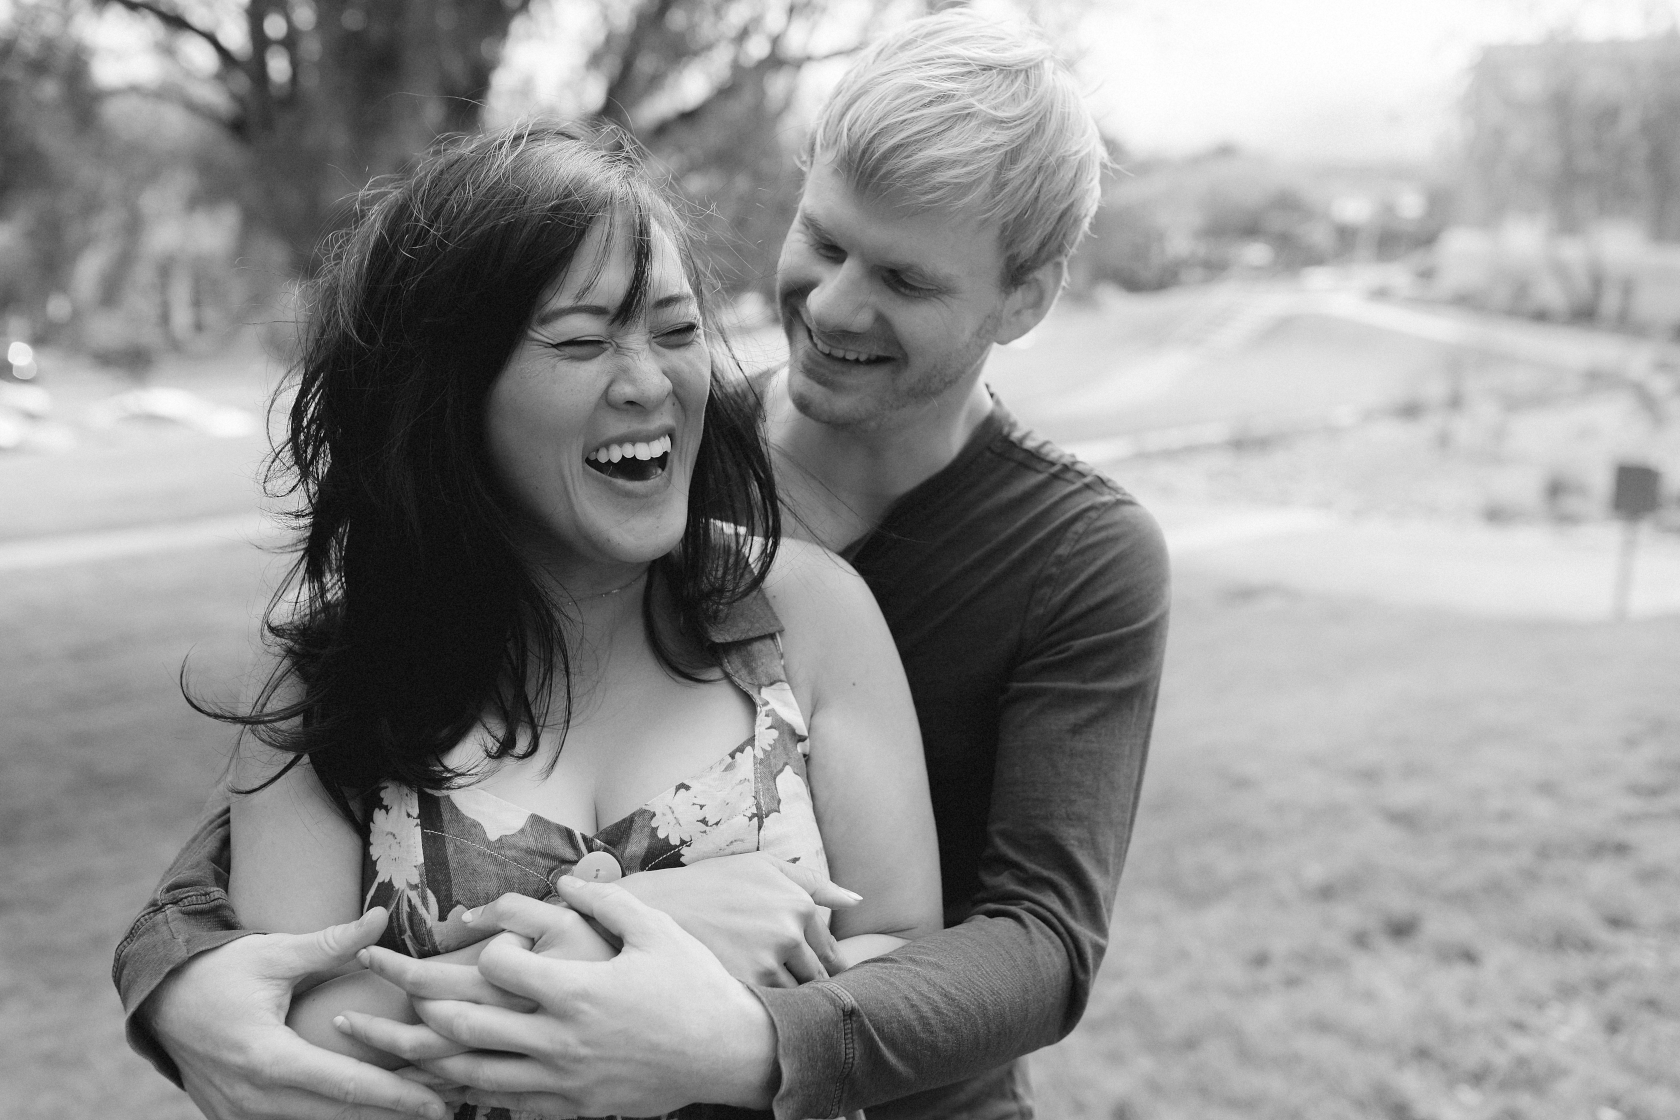
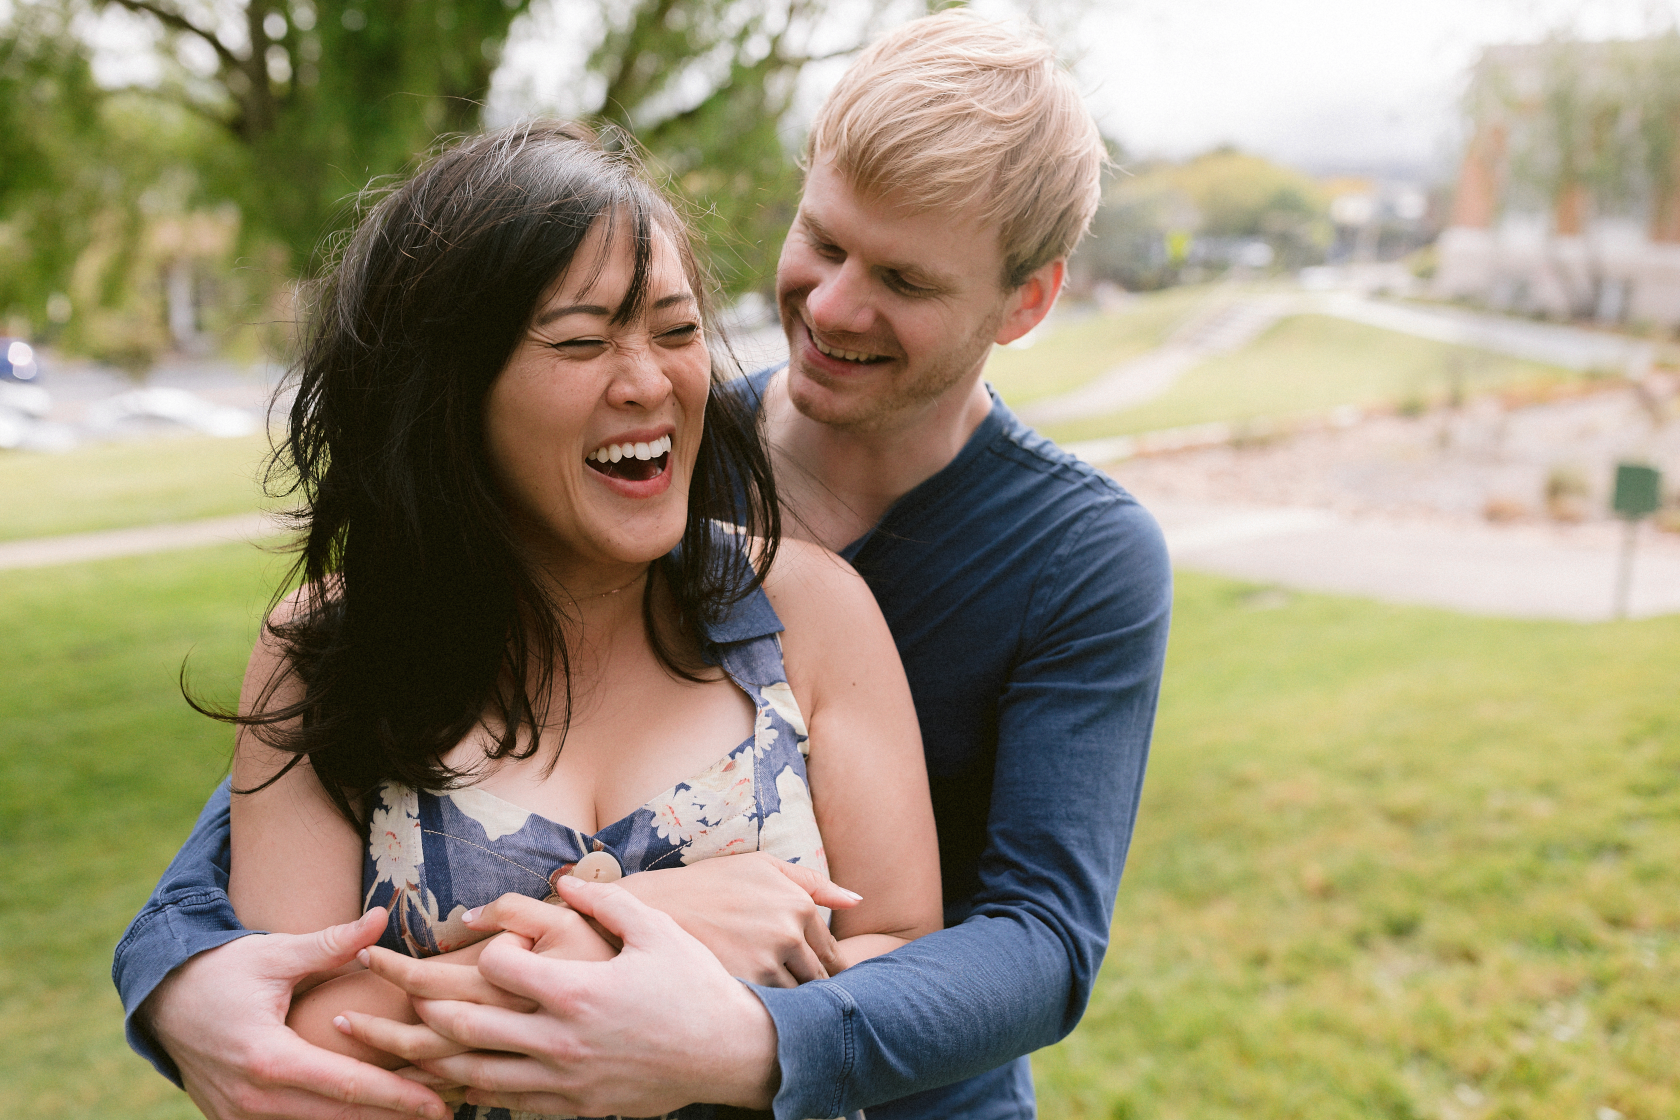
Use color heros of different sizes. * switch to color for the hero * add media queries for mobile/desktop sizes * add linear gradient in theme color over the image

diff --git a/site/static/css/home.css b/site/static/css/home.css
@@ -1,34 +1,25 @@
-@media (min-width: 320px) {
 #fh5co-home .gradient {
-    position: absolute;
-    top: 0;
-    bottom: 0;
-    left: 0;
-    right: 0;
-    z-index: 2;
-    opacity: .9;
+  background-image:var(--gradient-webkit);
+  background-size: cover; 
+}
+
+@media (min-width: 1680px) {
+#fh5co-home .gradient {
     -webkit-backface-visibility: hidden;
-    background-color:var(--theme-main);
-    background-image:url(/images/hero_320.png);
-    background: -webkit-linear-gradient(-45deg, rgba(3,39,76,1) 0%, rgba(32,124,229,0.5) 100%), url("/images/hero.png") no-repeat center; 
-    background-size: cover; 
+    background: linear-gradient(to bottom, rgba(3,39,76,1) 0%,rgba(3,39,76,0.7) 25%,rgba(22,138,244,0.7) 100%), url("/images/hero.png") no-repeat center;
   }
 }
 
-
-@media (min-width: 500px) {
+@media (max-width: 280px) {
 #fh5co-home .gradient {
-    position: absolute;
-    top: 0;
-    bottom: 0;
-    left: 0;
-    right: 0;
-    z-index: 2;
-    opacity: .9;
     -webkit-backface-visibility: hidden;
-    background-color:var(--theme-main);
-    background-image:url(/images/hero.png);
-    background: -webkit-linear-gradient(-45deg, rgba(3,39,76,1) 0%, rgba(32,124,229,0.5) 100%), url("/images/hero.png") no-repeat center; 
-    background-size: cover; 
+    background: linear-gradient(to bottom, rgba(3,39,76,1) 0%,rgba(3,39,76,0.7) 25%,rgba(22,138,244,0.7) 100%), url("/images/hero_250.png") no-repeat center;
+  }
+}
+
+@media (max-width: 1090px) {
+#fh5co-home .gradient {
+    -webkit-backface-visibility: hidden;
+    background: linear-gradient(to bottom, rgba(3,39,76,1) 0%,rgba(3,39,76,0.7) 25%,rgba(22,138,244,0.7) 100%), url("/images/hero_1050.png") no-repeat center;
   }
 }
